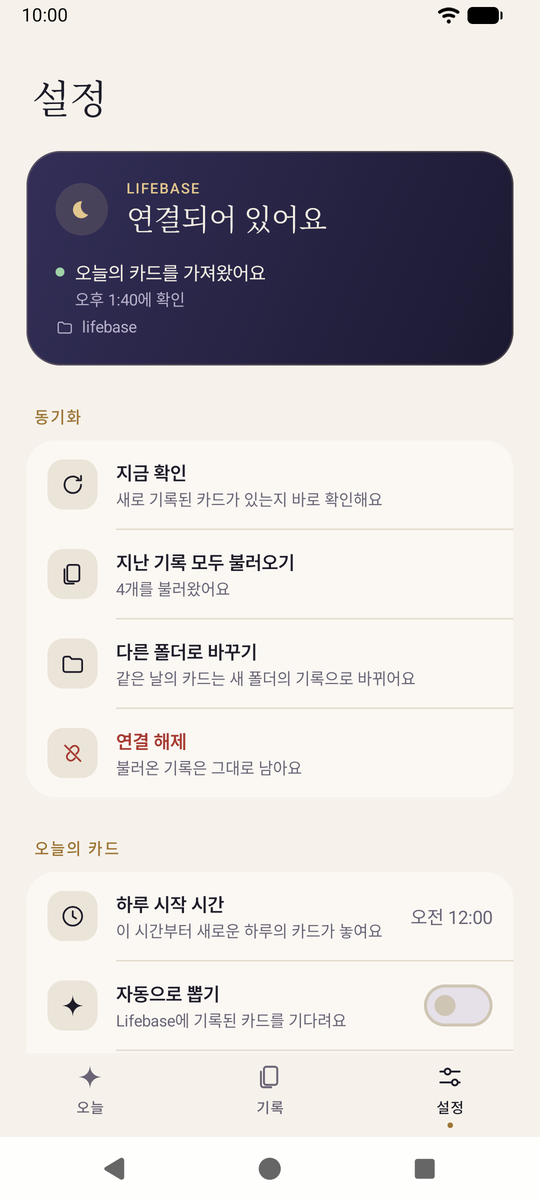
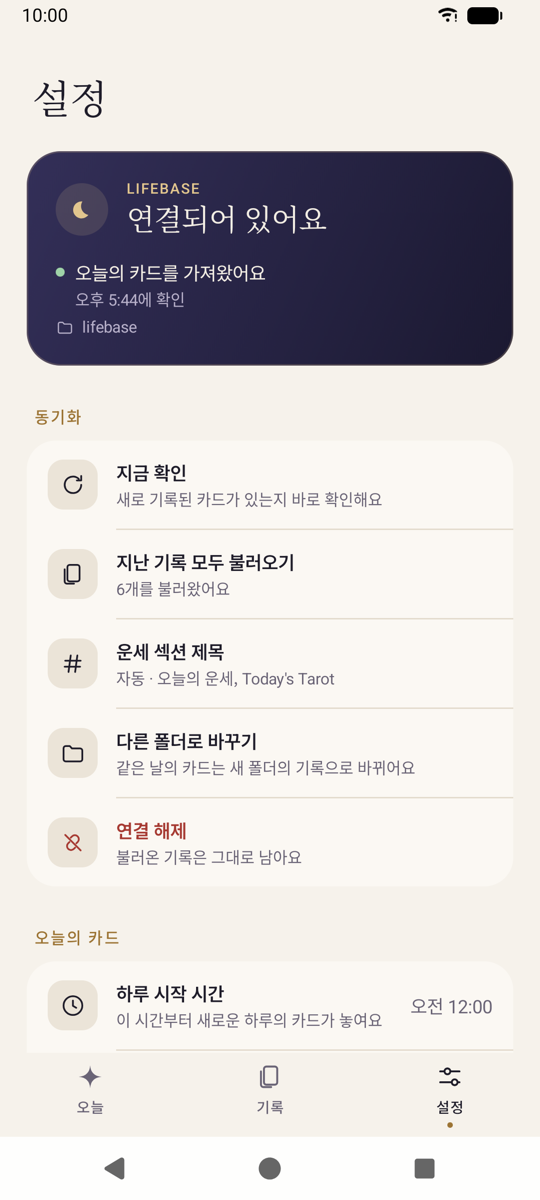
docs: 영어 README와 2.2 검증 기록, 스크린샷 추가

diff --git a/README.en.md b/README.en.md
@@ -1,0 +1,178 @@
+# Daily Tarot
+
+[한국어](README.md)
+
+An Android app that keeps one tarot card and reading for each day.
+A home screen widget shows today's card and one line of its reading.
+
+- No server and no account. Readings stay on the device.
+- When the day starts, a face-down card waits for you; tap it to draw, or let the app draw at a set time.
+- The 78-card Rider–Waite–Smith deck, with 156 upright and reversed readings in English and Korean.
+- If you keep a [Lifebase](#lifebase) journal, the card and reading you recorded there appear in the app as written.
+
+## Screens
+
+| Today | History | Settings | Widget |
+| --- | --- | --- | --- |
+| ![Today's reading from Lifebase](docs/screenshots/en/today.png) | ![History](docs/screenshots/en/history.png) | ![Settings](docs/screenshots/en/settings.png) | ![Widget](docs/screenshots/en/widget.png) |
+
+## Install
+
+Download the APK from [Releases](https://github.com/jagaldol/dailytarot/releases) and install it.
+It needs Android 7.0 (API 24) or later, and the first install asks you to allow apps from unknown sources.
+If Play Protect warns you, choose "Install anyway".
+
+To build it yourself, see [Build](#build).
+
+## Using the app
+
+### Today's card
+
+Settings → Today's card has two times:
+
+- **Day starts at** (default 12:00 AM): before this time yesterday's card stays up; after it, today's face-down card appears.
+- **Draw automatically** (default on) and **Automatic draw time** (default 8:00 AM): if you haven't drawn by then, the app draws for you.
+
+| No card yet today | App | Widget |
+| --- | --- | --- |
+| Before the day starts | Yesterday's card with "Yesterday's card" | Yesterday's card |
+| After the day starts | The face-down card; tap to draw | The card back and "Draw today's card" ("Today's card is drawn at 8:00 AM" while automatic drawing is on). A tap opens the app and draws |
+| Connected to Lifebase | The card back and "Today's card isn't in Lifebase yet" | The same message |
+
+A card you haven't seen yet opens only when you tap its back. A card you have seen also turns over once
+when you open the app fresh or come back after more than ten minutes.
+
+Without Lifebase you can also **choose a card** from the deck. A day is never drawn twice, and days you
+didn't open the app are not filled in later.
+
+### History
+
+The **History** tab lists past cards by month; tap a date to read that day again.
+Each record keeps the text it was saved with, so app updates never change past readings.
+Delete a record from its detail screen, or everything at once in Settings.
+
+### Widget
+
+Settings → Home screen → **Add widget** opens your launcher's add dialog. You can also touch and hold the
+home screen and choose **Widgets → Daily Tarot**. It starts at a full-page size and can shrink to 2×2.
+
+Without a widget, a sheet suggests one right after you turn over today's card (never as the app opens).
+It closes only through "Add widget" or "No thanks", asks at most once a day, asks again on the next day's card
+while there is still no widget, and stops for good with "Don't ask again". Settings can always add one.
+
+- The card is drawn as large as the cell allows, with the date, card name and one line of the reading in the space left.
+- The reading is never cut mid-sentence. Text shrinks a little when space is short, and the card shows alone if it still doesn't fit.
+- The widget background is transparent, so only the card floats over your wallpaper.
+
+### Language
+
+The screens and default readings follow the device language: Korean on Korean devices, English otherwise.
+On Android 13 or later you can pick the app's language alone in device Settings → Apps → Daily Tarot → Language;
+the widget follows. A saved reading keeps the text it was saved with; card names and dates follow the current language.
+
+### Backup
+
+Settings can **export** your records to a JSON file and **restore** them on a new device; restoring fills only
+days without a record. Android's automatic backup also includes records and settings (not the Lifebase folder
+link, so connect again after restoring).
+
+## Lifebase
+
+[Lifebase](https://lifebaseai.com) is a personal record system built on Obsidian. If your journal holds the
+day's tarot card and reading, Daily Tarot reads it and shows it in the app and widget. The app works fully on
+its own without it.
+
+1. In Settings → **Choose Lifebase folder**, pick your Lifebase folder (or the `Journal` folder inside it).
+   With Syncthing it is usually `Documents/lifebase`. English and Korean Lifebase both work.
+2. Once connected, past records are imported once, and today's card comes in automatically after that.
+
+- The folder is only read, and only the dated journal notes are opened. Diary, schedule and notes are never stored.
+- On days your journal has a card, the journal's card replaces the one drawn in the app.
+- Automatic drawing turns off while connected. Tapping the card back doesn't draw; if you need one,
+  **Draw a card yourself** does (and is replaced once your journal has the day's reading).
+- While waiting for today's card the app checks about every 15 minutes, then rests until the next day.
+  It also checks when you open the app and with Settings → Check now. Android's battery rules can delay scheduled checks.
+- Records drawn or chosen in the app can be deleted while connected; imported ones after disconnecting.
+- Disconnecting keeps the imported records.
+
+### Note format
+
+```markdown
+---
+tarot-card: The Empress
+tarot-reverse: true
+---
+
+## Today's Tarot
+
+> [!quote] [[The Empress]] · Reversed
+> **One-line reading**
+> Keywords: abundance, care, creativity
+>
+> Body
+```
+
+Only the frontmatter and the reading section of `Journal/YYYY/MM/YYYY-MM-DD.md` are read. Korean notes
+(`## 오늘의 운세`, `키워드:`, `정방향`/`역방향`) are read the same way.
+Older notes with only keywords are read too, and the default reading is shown alongside them.
+If the card or orientation differs between the frontmatter and the callout, that day is left unchanged.
+
+If you renamed the reading heading in your journal, enter it under Settings → **Reading heading** → **Custom**.
+The custom heading is looked for first and the defaults (`Today's Tarot`, `오늘의 운세`) still cover notes written
+before the rename. Changing it imports past records once more. Lifebase's own sections (Diary, Schedule, To do, Notes) can't be chosen.
+
+## Build
+
+- JDK 21, Android SDK Platform 37.0, Build Tools 36.0.0
+- Open the project in Android Studio, or set `sdk.dir` in `local.properties`.
+
+```sh
+./gradlew :app:installDebug          # install a debug build on a connected device or emulator
+./gradlew :app:assembleRelease       # app/build/outputs/apk/release/
+```
+
+Release builds shrink code and resources with R8. Signing details are read from a properties file outside the
+repository (the `DAILYTAROT_KEYSTORE_PROPERTIES` environment variable, else
+`~/.android/dailytarot/keystore.properties`). Without it the APK is built unsigned.
+
+```properties
+storeFile=/path/to/release.jks
+storePassword=…
+keyAlias=…
+keyPassword=…
+```
+
+### Tests
+
+```sh
+./gradlew :app:testDebugUnitTest :app:lint
+./gradlew :app:connectedDebugAndroidTest   # on a test device or emulator
+python3 tools/check_assets.py
+```
+
+Device tests change app data (today's record, the Lifebase link), so don't run them on a device you use.
+The verification log is in [docs/verification.md](docs/verification.md) (Korean).
+
+## Structure
+
+- `model/`: the 78-card deck, the `Day` date type that also works on API 24, and `DailyReading` per date
+- `data/`: the SQLite store keyed by date, the single writer that keeps one card per day, the reading catalogs, settings, backup
+- `data/lifebase/`: the journal reading parser, Storage Access Framework reads, sync
+- `work/`: scheduled WorkManager jobs
+- `widget/`: the Glance widget
+- `ui/`: Compose screens and theme, dates and times per language (`Labels.kt`)
+
+The only libraries are AndroidX (Compose, Glance, DataStore, WorkManager).
+
+## Tools
+
+- `tools/check_assets.py`: checks the 156 card images and the English and Korean reading catalogs
+- `tools/extract_lifebase_catalog.py`: re-extracts or compares a reading catalog from a Lifebase card dictionary (`--locale en` for English)
+- `tools/make_launcher_icons.py`: builds launcher icons for Android 7.x
+- `tools/fetch_rws_images.sh`, `convert_pngs_to_webp.sh`, `make_thumbs.sh`: prepare card images (needs `cwebp`)
+
+Sources for the card art and readings are in [ASSETS.md](ASSETS.md).
+
+## License
+
+The code is under the [MIT License](LICENSE). The card art (the 1909 Rider–Waite–Smith deck) is in the public domain.

diff --git a/docs/verification.md b/docs/verification.md
@@ -1,5 +1,76 @@
 # 검증 기록
 
+# 2.2 (2026-10-09): 영어 지원·운세 섹션 제목 설정
+
+## 범위
+
+- 화면 문구: 영어를 기본(`values/`)으로 하고 한국어를 `values-ko/`로 옮겼습니다. 한국어 문구는 그대로이며
+  날짜·시간 표기("10월 7일 수요일", "오전 8:00")도 이전과 같습니다. `localeConfig`(en-US, ko)를 생성해
+  Android 13 이상의 앱별 언어 설정에 나타납니다. 영어 개수 문구는 plurals로 단수·복수를 나눴습니다.
+- 기본 운세: 영어 Lifebase 카드 노트에서 `default_fortunes.en.json`(156개)을 추출했습니다. 앱 언어가 한국어면
+  한국어, 그 밖에는 영어 카탈로그를 씁니다. 카탈로그 schema는 `nameKo` 대신 `name`을 쓰는 2로 올렸습니다.
+- 일지 파서: `## Today's Tarot`, `Keywords:`, `Upright`/`Reversed`를 한국어 형식과 함께 읽습니다. 제목은 대소문자·
+  공백·둥근 따옴표(’) 차이를 무시합니다. 파서 사유 문구는 화면에 나오지 않는 내부 영어 문구로 바꿨습니다.
+- 운세 섹션 제목 설정: 연결 중 설정의 동기화 묶음에 "자동 / 직접 입력" 항목을 넣었습니다. 직접 입력한 제목을 먼저 찾고
+  없으면 기본 제목으로 읽습니다. 바꾸면 파일 지문을 지우고 지난 기록 가져오기를 다시 시작합니다.
+- 위젯: 캡션 줄 수 추정의 라틴 글자 폭을 일괄 0.6em에서 Noto Serif 실측 폭의 묶음별 상한으로 바꿨습니다.
+  기존 추정은 `m`·`w`가 많은 영어 단어를 실제보다 좁게 잡아 줄이 넘칠 수 있었습니다.
+- 언어 변경: 캐시된 프로세스는 이전 언어 설정을 그대로 들고 있을 수 있어, 위젯과 백그라운드 추첨은 시스템에 현재 앱 언어를
+  다시 묻습니다. `LOCALE_CHANGED`를 받으면 실행 중인 위젯 세션도 새 언어로 다시 그립니다.
+
+## 자동 검증
+
+```sh
+./gradlew :app:testDebugUnitTest :app:lint :app:assembleRelease
+./gradlew :app:connectedDebugAndroidTest   # DailyTarot_API37_Verification, 시스템 언어 en-US와 ko-KR 각각
+python3 tools/check_assets.py
+python3 tools/extract_lifebase_catalog.py <lifebase-distribution>/lifebase/locales/ko --check
+python3 tools/extract_lifebase_catalog.py <lifebase-distribution>/lifebase/locales/en --locale en --check
+```
+
+- JVM 테스트 56개 통과. 새 테스트: 영어 일지·영어 키워드 전용 기록, 제목의 대소문자·둥근 따옴표, 직접 입력 제목 우선과
+  기본 제목 대체, 기본 제목을 직접 입력했을 때 중복 제거, 입력 제목 정리(`#`·공백·여러 줄·길이), 두 카탈로그의 덱 일치와
+  언어 선택, 라틴 글자 폭이 Noto Serif 실측 이상, 영어 캡션 배치, 닫는 `#`, 콜아웃 제목 끝의 방향, 영어 키워드 구분자, 고를 수 없는 기본 섹션 제목.
+- Android 테스트 9개가 시스템 언어 en-US와 ko-KR 모두에서 통과. 위젯 설명 기대값을 현재 앱 언어로 계산하게 바꿨습니다.
+- 린트 오류 0, 경고 0. 릴리스 APK의 매니페스트에 `localeConfig`(en-US, ko)가 들어 있음을 `aapt2`로 확인했습니다.
+- 두 카탈로그가 lifebase-distribution의 한국어·영어 카드 노트와 156개 모두 문자 단위로 같습니다.
+
+## 에뮬레이터 수동 확인 (API 37)
+
+가짜 vault(영어 `## Today's Tarot` 일지, `## My Tarot`으로 제목을 바꾼 일지, 한국어 일지)로 확인했습니다.
+
+- 영어 화면: 오늘(날짜 "Friday, October 9", 카드 이름과 "UPRIGHT"), 위젯 권유 창, 기록("3 days of cards", "October 2026"),
+  상세("Thursday, October 8, 2026"), 설정과 운세 섹션 제목 창(자동 선택, 직접 입력 시 입력칸 자동 포커스).
+- 연결 직후 2개(영어·한국어 일지)를 가져왔고, 제목을 "My Tarot"으로 직접 입력하자 다시 가져오기가 돌아 3개가 됐습니다.
+  오늘의 기본 제목 일지도 계속 읽혔습니다. 한국어 일지의 운세는 영어 화면에서도 원문 그대로 보였습니다.
+- 앱별 언어 설정 화면에 Daily Tarot이 English·한국어와 함께 나타났습니다. 앱 언어를 한국어로 바꾸자 앱을 다시 시작하지 않아도
+  "2026년 10월 8일 목요일", "오전 12:00", "오후 5:31에 확인", "## My Tarot"으로 바뀌었습니다.
+- 홈 화면 위젯을 둔 채 앱 언어를 한국어↔영어로 다섯 번 바꿔 "10.9 금 · 여황제 역방향"과 "Fri, Oct 9 · The Empress Reversed"가
+  번갈아 표시됨을 확인했습니다(수정 전에는 백그라운드 프로세스가 이전 언어로 그렸습니다).
+
+## 코드 리뷰 반영
+
+별도 리뷰에서 나온 항목을 고쳤습니다.
+
+- 한국어·영어가 아닌 기기(예: 프랑스어)에서 영어 문구에 프랑스어 월·요일 이름이 섞이던 문제: 문구가 실제로 고른 언어를
+  `content_language` 리소스로 받아 운세·날짜 이름도 그 언어를 따르게 했습니다. AndroidX 라이브러리의 다른 언어 리소스는
+  `localeFilters`로 빼서, 앱 언어를 일본어·한국어 순서로 두면 한국어로 보입니다(에뮬레이터에서 둘 다 확인).
+- 직접 입력한 제목의 닫는 `##`을 지우고, 2.1이 읽던 `## 오늘의 운세##`(공백 없는 닫는 `#`)를 다시 읽습니다.
+- 방향은 콜아웃 제목의 마지막 `·` 뒤에서만 찾고, 영어 키워드 줄은 `Keywords:`만 받습니다.
+- 일기·일정·할 일·메모(Diary·Schedule·To do·Notes)는 제목으로 고를 수 없게 하고, 입력칸 아래에 이유를 보여 줍니다.
+- 제목을 바꾸는 사이 이전 제목으로 돌던 확인 작업은 파일 지문과 상태를 기록하지 않습니다.
+- 화면의 카드 이름·기본 해석은 Activity의 언어로, 위젯과 백그라운드 추첨은 시스템에 물은 언어로 카탈로그를 고릅니다.
+  앱별 언어를 "시스템 기본값"으로 되돌리면 `LocaleManager.systemLocales`를 써서, 백그라운드에서도 위젯이 기기 언어로
+  돌아오는 것을 확인했습니다.
+- 위젯 폭 추정에 `·`, 둥근 따옴표, `…`, `–`의 실측 폭을 넣었습니다.
+
+## 확인하지 못한 범위
+
+- Android 7–12에서 앱별 언어 설정은 없으며 기기 언어만 따릅니다. API 24 에뮬레이터 실행은 이번에도 하지 않았습니다.
+- 영어 글자 폭은 Noto Serif 기준입니다. 제조사가 serif 글꼴을 바꾼 기기에서는 여유분(실측보다 3–22% 넓게 추정)에 기댑니다.
+
+---
+
 # 2.0 (2026-10-08): 날짜별 기록·Lifebase 연동·디자인 개편
 
 ## 범위

diff --git a/ASSETS.md b/ASSETS.md
@@ -18,9 +18,10 @@ Local transformations:
 
 ## Fortunes
 
-`app/src/main/assets/default_fortunes.ko.json` holds one Korean keyword line and one fortune
-sentence for each card and orientation (156 entries). They are copied verbatim from the
-author's Lifebase card dictionary with `tools/extract_lifebase_catalog.py`.
+`app/src/main/assets/default_fortunes.ko.json` and `default_fortunes.en.json` each hold one keyword
+line and one fortune sentence for every card and orientation (156 entries), in Korean and English.
+They are copied verbatim from the author's Lifebase card dictionary in that language with
+`tools/extract_lifebase_catalog.py` (`--locale en` for the English vault).
 
 ## App icon and card back
 
